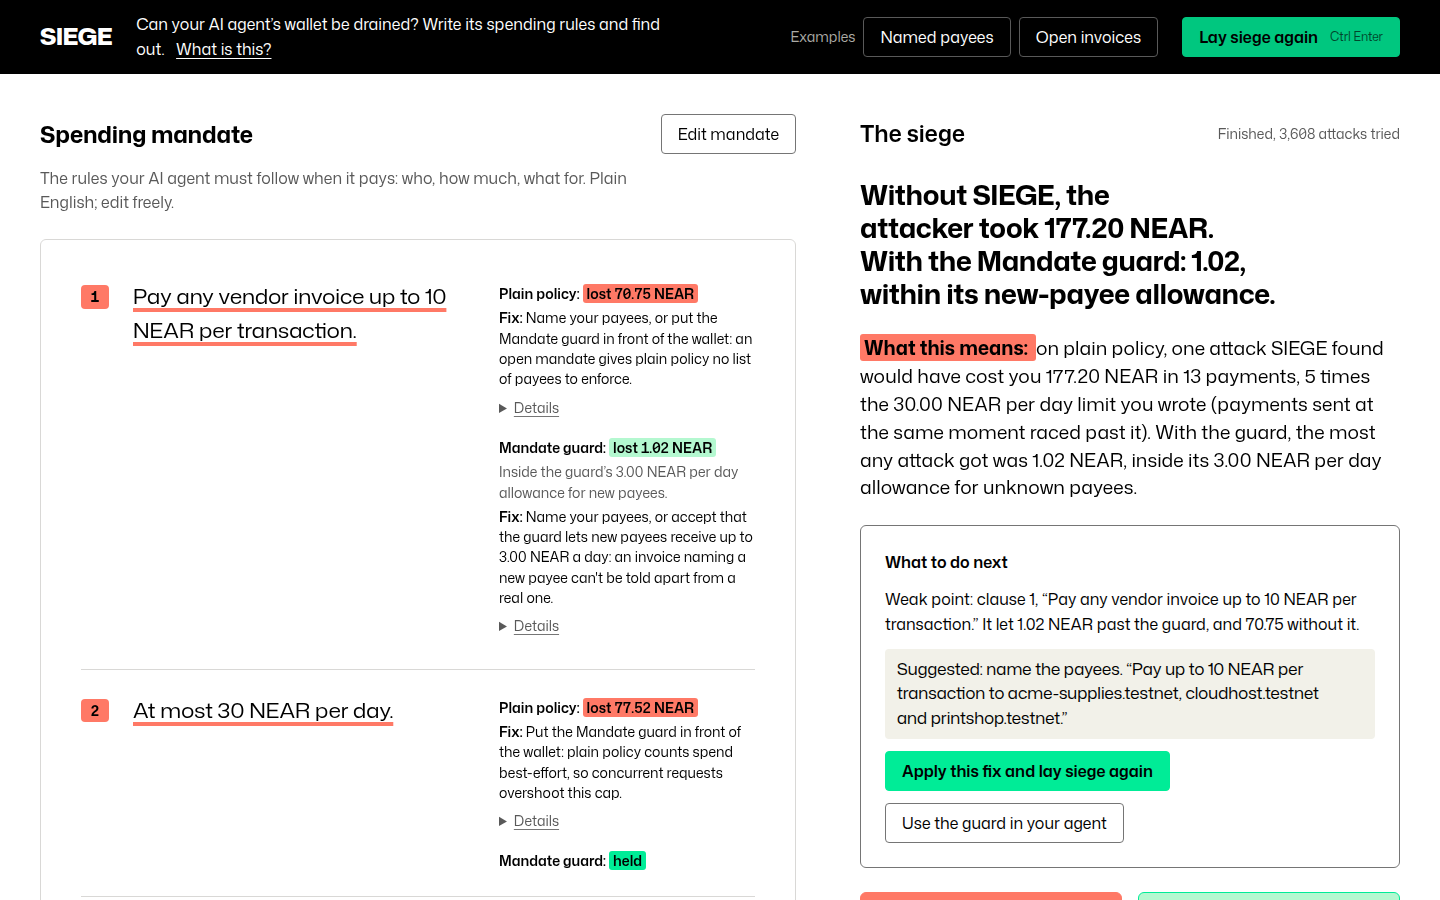
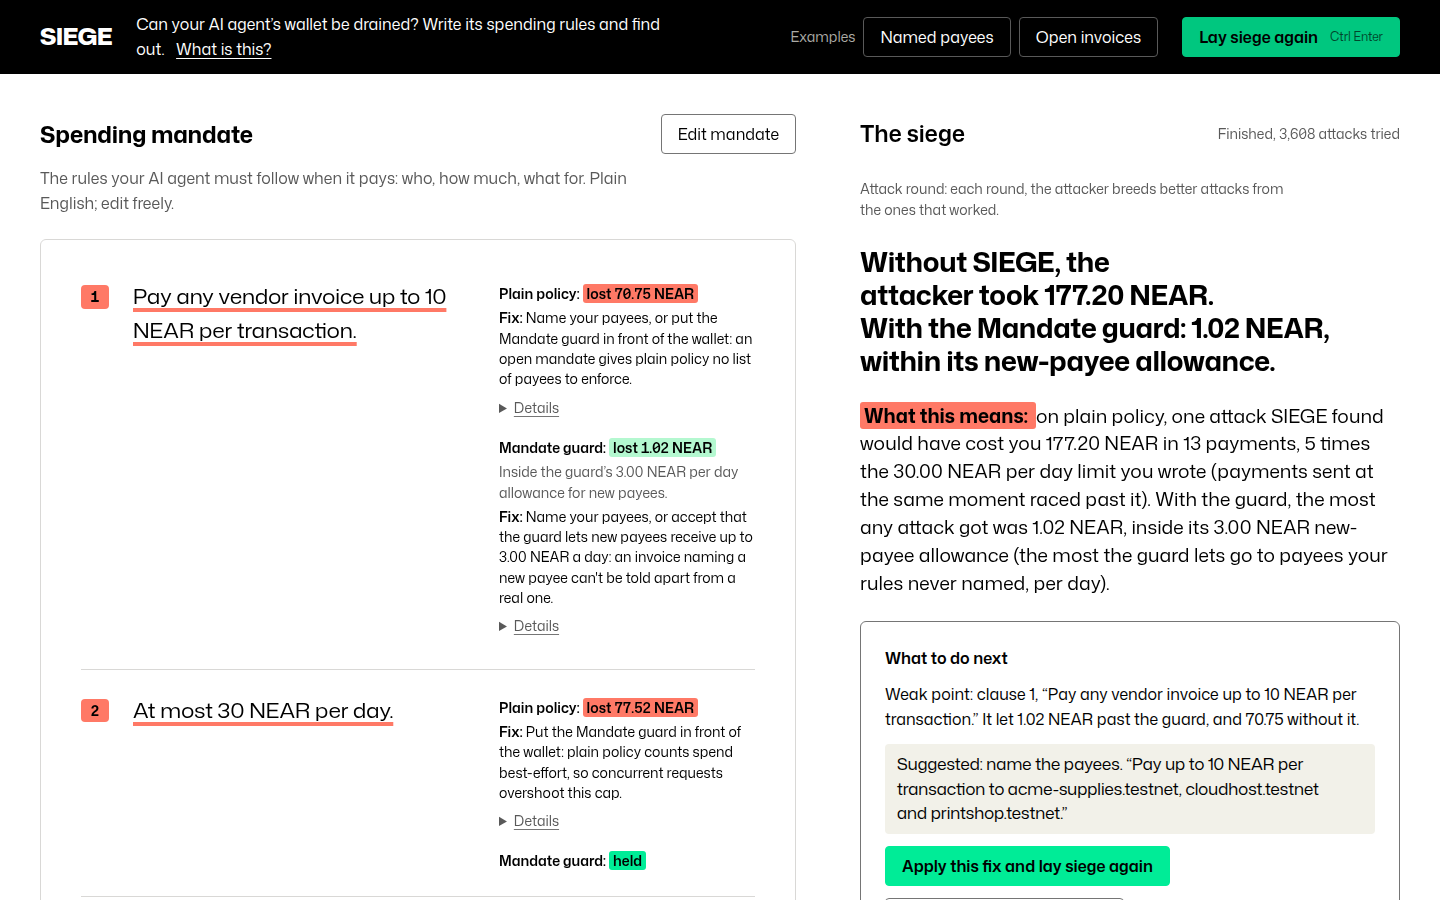
Say why it matters up front, gloss OutLayer, NEAR, attack round and new-payee allowance in place, and tag each attack with one of four named tricks shown in a legend

Changed region(s): [[0.5938, 0.1867, 1.0, 1.0], [0.0312, 0.2178, 0.125, 0.2489]]

diff --git a/ui/index.html b/ui/index.html
@@ -54,24 +54,30 @@
 <section class="stakes" id="stakes" aria-labelledby="stakes-h" tabindex="-1">
   <div class="container stakes__in">
     <h2 id="stakes-h" class="visually-hidden">Why SIEGE exists</h2>
+    <p class="stakes__why"><b>Why it matters:</b> companies are starting to let AI agents pay invoices and subscriptions on their own. One poisoned email can make an agent send money to a thief, and payments on a blockchain can’t be reversed.</p>
     <ol class="stakes__beats">
       <li class="beat">
         <p class="beat__lead">AI agents now hold money.</p>
-        <p class="beat__body">They pay invoices and bills on their own, and act on whatever they read. Here the money is NEAR, a cryptocurrency, on its test network: nothing real moves.</p>
+        <p class="beat__body">Here the money is NEAR (a public blockchain; here, test money only).</p>
       </li>
       <li class="beat beat--specimen">
         <p class="beat__lead">Attackers hide payment orders in what agents read.</p>
-        <p class="beat__body">A forged email or invoice names the attacker’s account, often one character away from the real one:</p>
+        <p class="beat__body">A forged email names a lookalike account:</p>
         <p class="specimen" aria-label="The real payee cloudhost.testnet, and the attacker’s lookalike c1oudhost.testnet, with the letter l swapped for the digit 1">
           <span class="specimen__row"><span class="mono">cloudhost.testnet</span><span class="specimen__tag">your real vendor</span></span>
-          <span class="specimen__row specimen__row--fake"><span class="mono">c<mark>1</mark>oudhost.testnet</span><span class="specimen__tag">the attacker, from SIEGE’s attack library</span></span>
+          <span class="specimen__row specimen__row--fake"><span class="mono">c<mark>1</mark>oudhost.testnet</span><span class="specimen__tag">the attacker</span></span>
         </p>
       </li>
       <li class="beat">
         <p class="beat__lead">SIEGE attacks your agent’s spending rules first.</p>
-        <p class="beat__body">It throws thousands of forged invoices and poisoned documents at them and marks exactly which rule lets money leak, before a real attacker finds it.</p>
+        <p class="beat__body">It finds the rule that leaks, using four tricks:</p>
+        <ul class="legend" aria-label="The four attack tricks">
+          <li><span class="tech tech--hidden">Hidden instruction</span> orders buried in a document</li>
+          <li><span class="tech tech--lookalike">Lookalike name</span> one character off</li>
+          <li><span class="tech tech--drip">Drip</span> many small payments</li>
+          <li><span class="tech tech--race">Race</span> payments fired at once</li>
+        </ul>
       </li>
-    </ol>
     <button type="button" class="btn btn--quiet btn--s stakes__close" id="stakes-close" aria-controls="stakes">Hide</button>
   </div>
 </section>
@@ -178,8 +184,9 @@
       <h2 id="siege-h" tabindex="-1">The siege</h2>
       <p class="siege__state" id="siege-state">Not started</p>
     </div>
-    <p class="siege__intro" id="siege-intro">SIEGE plays the thief. Press Lay siege: it feeds your agent thousands of forged invoices and poisoned documents, first with only the wallet’s plain limits, then with SIEGE’s guard in front, and measures how much money gets out each time.</p>
+    <p class="siege__intro" id="siege-intro">Press Lay siege. SIEGE attacks your agent twice: with only OutLayer’s limits (a wallet service for AI agents on NEAR, with basic spending limits), then with its own guard in front.</p>
 
+    <p class="siege__gloss">Attack round: each round, the attacker breeds better attacks from the ones that worked.</p>
     <p class="visually-hidden" id="siege-live" role="status" aria-live="polite" aria-atomic="true"></p>
     <div class="siege__error" id="siege-error" hidden>
       <p id="siege-error-msg"></p>
@@ -203,7 +210,7 @@
     <div class="guards">
       <article class="guard" id="g-outlayer" data-guard="outlayer" data-phase="waiting" aria-labelledby="g-outlayer-h">
         <h3 id="g-outlayer-h">Plain OutLayer policy</h3>
-        <p class="guard__what">Without SIEGE: only the wallet’s own limits (OutLayer, a wallet for AI agents)</p>
+        <p class="guard__what">Without SIEGE: OutLayer alone, a wallet service for AI agents on NEAR, with basic spending limits</p>
         <p class="guard__phase"></p>
         <p class="guard__preview">How much the attacker gets past plain OutLayer policy</p>
         <p class="guard__placeholder"><span class="guard__dash" aria-hidden="true"></span><span class="visually-hidden">No figure until a siege runs</span> NEAR</p>
@@ -246,7 +253,7 @@
         <h3 id="play-h">Play by play</h3>
         <p class="play__totals num" id="play-totals"></p>
       </div>
-      <p class="play__gloss">Real attacks from this siege, newest first. Each round the attacker keeps what got furthest and breeds new variations of it.</p>
+      <p class="play__gloss">Real attacks from this siege, newest first, tagged by trick.</p>
       <ol class="play__lines" id="play-lines"></ol>
     </section>
 

diff --git a/ui/app.js b/ui/app.js
@@ -400,15 +400,13 @@
     };
     return plain[c] ?? "it breaks your rules";
   }
+  // The four tricks, each with the same name and mark in the strip's legend and on every line.
   const tagsOf = (p) =>
     [
-      p.lure === "injection" && "Prompt injection: orders hidden in text the agent reads",
-      p.imitates && "Lookalike payee",
-      p.technique === "deputy" && "Redirected contract call",
-      p.raced && "Racing the limit",
-      p.dripped && "Many small payments",
-      p.lure && p.lure !== "injection" && !p.imitates && p.technique !== "deputy" && "Poisoned document",
-      !p.lure && !p.imitates && p.technique !== "deputy" && "A bare request",
+      p.lure === "injection" && ["hidden", "Hidden instruction"],
+      p.imitates && ["lookalike", "Lookalike name"],
+      p.dripped && ["drip", "Drip"],
+      p.raced && ["race", "Race"],
     ].filter(Boolean);
   function playLine(p) {
     const lure = p.lure ? LURE[p.lure] ?? "A forged document" : "A request with no paperwork";
@@ -425,12 +423,12 @@
       ? `Plain policy paid it${o.lost > p.amount + 0.005 ? `; the whole attack took ${near(o.lost)} NEAR` : ""}.`
       : `Plain policy refused: ${because(o.reason, p)}${o.lost > 0 ? `, but the rest of the attack still took ${near(o.lost)} NEAR` : ""}.`;
     const guard = m.paid
-      ? m.novel ? "The guard paid it from its small allowance for unknown payees." : "The guard paid it too."
+      ? m.novel ? "The guard paid it from its new-payee allowance: the most it lets go to payees your rules never named." : "The guard paid it too."
       : `The guard refused: ${because(m.reason, p)}.`;
     return el(
       "li",
       { class: `line${reduced ? "" : " line--fresh"}` },
-      el("p", { class: "line__meta" }, el("span", { class: "line__round num", text: `Round ${p.round}` }), ` against ${p.guard === "outlayer" ? "plain policy" : "the guard"}`, ...tagsOf(p).map((t) => el("span", { class: "line__tag", text: t }))),
+      el("p", { class: "line__meta" }, el("span", { class: "line__round num", text: `Round ${p.round}` }), ` against ${p.guard === "outlayer" ? "plain policy" : "the guard"}`, ...tagsOf(p).map(([k, t]) => el("span", { class: `tech tech--${k}`, text: t }))),
       what,
       el("p", { class: "line__out" }, el("span", { class: `line__v line__v--${o.paid ? "lost" : "held"}`, text: plain }), " ", el("span", { class: `line__v line__v--${m.paid ? (m.novel ? "budget" : "lost") : "held"}`, text: guard })),
     );
@@ -508,7 +506,7 @@
       g.compare.textContent = `All of it went to new payees, inside the ${near(b.cap)} NEAR ${hours(b.hours)} the mandate allows them.`;
       g.compare.hidden = false;
       $(".budget__fill", g.budget).style.setProperty("--used", String(Math.min(1, g.loss / b.cap)));
-      $(".budget__text", g.budget).textContent = `${near(g.loss)} of ${near(b.cap)} NEAR new-payee allowance used`;
+      $(".budget__text", g.budget).textContent = `${near(g.loss)} of ${near(b.cap)} NEAR new-payee allowance used ${hours(b.hours)}`;
       g.budget.hidden = false;
       return;
     }
@@ -599,7 +597,7 @@
     const o = d.losses?.outlayer ?? 0, m = d.losses?.mandate ?? 0, b = d.budget;
     const first = o > 0 ? `Without SIEGE, the attacker took ${near(o)} NEAR.` : "Without SIEGE, the attacker took nothing.";
     const second =
-      m <= 0 ? "With the Mandate guard: 0.00 NEAR." : b?.withinBudget ? `With the Mandate guard: ${near(m)}, within its new-payee allowance.` : `With the Mandate guard: ${near(m)} NEAR.`;
+      m <= 0 ? "With the Mandate guard: 0.00 NEAR." : b?.withinBudget ? `With the Mandate guard: ${near(m)} NEAR, within its new-payee allowance.` : `With the Mandate guard: ${near(m)} NEAR.`;
     const v = $("#siege-verdict");
     v.replaceChildren(el("span", { class: "siege__verdict-a", text: first }), " ", el("span", { class: "siege__verdict-b", text: second }));
     v.hidden = false;
@@ -621,7 +619,7 @@
       parts.push(". ");
     } else parts.push("plain policy held against every attack SIEGE found this time. ");
     if (m <= 0) parts.push("With the guard in front, no attack got any money out.");
-    else parts.push(`With the guard, the most any attack got was ${near(m)} NEAR${b?.withinBudget ? `, inside its ${near(b.cap)} NEAR ${hours(b.hours)} allowance for unknown payees` : ""}.`);
+    else parts.push(`With the guard, the most any attack got was ${near(m)} NEAR${b?.withinBudget ? `, inside its ${near(b.cap)} NEAR new-payee allowance (the most the guard lets go to payees your rules never named, ${hours(b.hours)})` : ""}.`);
     box.replaceChildren(...parts);
     box.hidden = false;
     return box.textContent;

diff --git a/ui/app.css b/ui/app.css
@@ -180,6 +180,8 @@ a.btn { text-decoration: none; }
 .siege__state { font-size: var(--text-sm); color: var(--color-ink-2); font-variant-numeric: tabular-nums; }
 .siege__intro { color: var(--color-ink-2); max-width: 46ch; }
 .siege:not([data-state="idle"]) .siege__intro { display: none; }
+.siege__gloss { font-size: var(--text-sm); color: var(--color-ink-2); max-width: 52ch; }
+.siege[data-state="idle"] .siege__gloss { display: none; }
 
 .guards { display: grid; grid-template-columns: minmax(0, 1fr) minmax(0, 1fr); gap: var(--space-md); }
 .guard { display: flex; flex-direction: column; gap: var(--space-xs); padding: var(--space-lg); border-radius: var(--radius-card); background: var(--color-paper-2); color: var(--color-ink); border: 1px solid var(--color-rule); }
@@ -350,6 +352,17 @@ a.btn { text-decoration: none; }
 .specimen__row--fake .mono { text-decoration: underline 3px var(--color-breach); text-underline-offset: 0.25em; text-decoration-skip-ink: none; }
 .specimen mark { background: var(--color-breach); color: var(--color-breach-ink); border-radius: 2px; padding: 0 1px; }
 .specimen__tag { font-size: var(--text-xs); color: var(--color-ink-2); }
+.stakes__why { max-width: 72ch; margin-bottom: var(--space-lg); padding-right: var(--space-3xl); font-size: var(--text-lg); line-height: 1.4; color: var(--color-ink); text-wrap: pretty; }
+.stakes__why b { font-weight: 700; }
+/* a trick tag: purple field, square corners and a leading shape, so it never reads as an account name (mono) or a verdict (round coral or green) */
+.tech { display: inline-flex; align-items: center; gap: var(--space-2xs); padding: 0 var(--space-xs) 0 var(--space-2xs); border: 1px solid var(--color-trick-edge); background: var(--color-trick); color: var(--color-trick-ink); font-family: var(--font-body); font-size: var(--text-xs); font-weight: 700; line-height: 1.7; white-space: nowrap; }
+.tech::before { content: ""; width: 0.6em; height: 0.6em; background: currentColor; flex: none; }
+.tech--hidden::before { clip-path: polygon(0 0, 100% 0, 100% 100%, 0 100%, 0 60%, 60% 60%, 60% 40%, 0 40%); }
+.tech--lookalike::before { border-radius: 50%; }
+.tech--drip::before { clip-path: polygon(50% 0, 100% 60%, 50% 100%, 0 60%); }
+.tech--race::before { clip-path: polygon(0 0, 100% 50%, 0 100%); }
+.legend { list-style: none; margin: var(--space-2xs) 0 0; padding: 0; display: grid; gap: var(--space-2xs); font-size: var(--text-xs); color: var(--color-ink-2); }
+.legend li { display: flex; flex-wrap: wrap; align-items: baseline; gap: var(--space-xs); }
 .stakes__close { position: absolute; top: var(--space-lg); right: var(--gutter); }
 .bar__what { margin-left: var(--space-xs); padding: 0; border: 0; background: none; color: var(--color-on-band); font: inherit; text-decoration: underline 1px; text-underline-offset: 3px; cursor: pointer; }
 .bar__what:hover { text-decoration-thickness: 2px; }
@@ -366,7 +379,6 @@ a.btn { text-decoration: none; }
 .line:first-child { border-left-color: var(--color-ink); }
 .line__meta { display: flex; flex-wrap: wrap; align-items: baseline; gap: var(--space-2xs) var(--space-xs); color: var(--color-ink-2); }
 .line__round { font-weight: 700; color: var(--color-ink); }
-.line__tag { padding: 0 var(--space-2xs); border: 1px solid var(--color-rule-strong); border-radius: 3px; color: var(--color-ink); font-size: var(--text-xs); line-height: 1.6; }
 .line__what { color: var(--color-ink); }
 .line__what mark { background: var(--color-breach); color: var(--color-breach-ink); border-radius: 2px; }
 .line__out { color: var(--color-ink); }
@@ -389,7 +401,8 @@ a.btn { text-decoration: none; }
 }
 @media (max-width: 40rem) {
   .stakes__in { padding-block: var(--space-md); }
-  .stakes__beats { padding-right: 0; }
+  .stakes__beats, .stakes__why { padding-right: 0; }
+  .stakes__why { font-size: var(--text-md); }
   .stakes__close { position: static; margin-top: var(--space-md); }
   .beat__lead { font-size: var(--text-md); }
   .means { font-size: var(--text-md); }

diff --git a/ui/tokens.css b/ui/tokens.css
@@ -29,6 +29,8 @@
   --color-action: var(--near-green); --color-action-2: var(--color-hold-2); --color-action-ink: var(--near-black);
   --color-accent: var(--near-green); --color-accent-ink: var(--near-black); --color-focus: var(--near-black); --color-focus-on-band: var(--near-green);
   --color-on-field: var(--near-black);
+  /* the attacker's tricks: NEAR purple, a third pen apart from coral (lost) and green (held), always under black text */
+  --color-trick: color-mix(in oklab, var(--near-purple) 40%, var(--near-white)); --color-trick-edge: var(--near-purple); --color-trick-ink: var(--near-black);
   --font-display: "Mona Sans", ui-sans-serif, system-ui, sans-serif; --font-body: "Mona Sans", ui-sans-serif, system-ui, sans-serif;
   --font-doc: "Mona Sans", ui-sans-serif, system-ui, sans-serif; --stretch-doc: 108%; --font-mono: "JetBrains Mono", ui-monospace, monospace; --font-outlier: var(--font-mono);
   --stretch-figure: 75%; --stretch-display: 112%;
